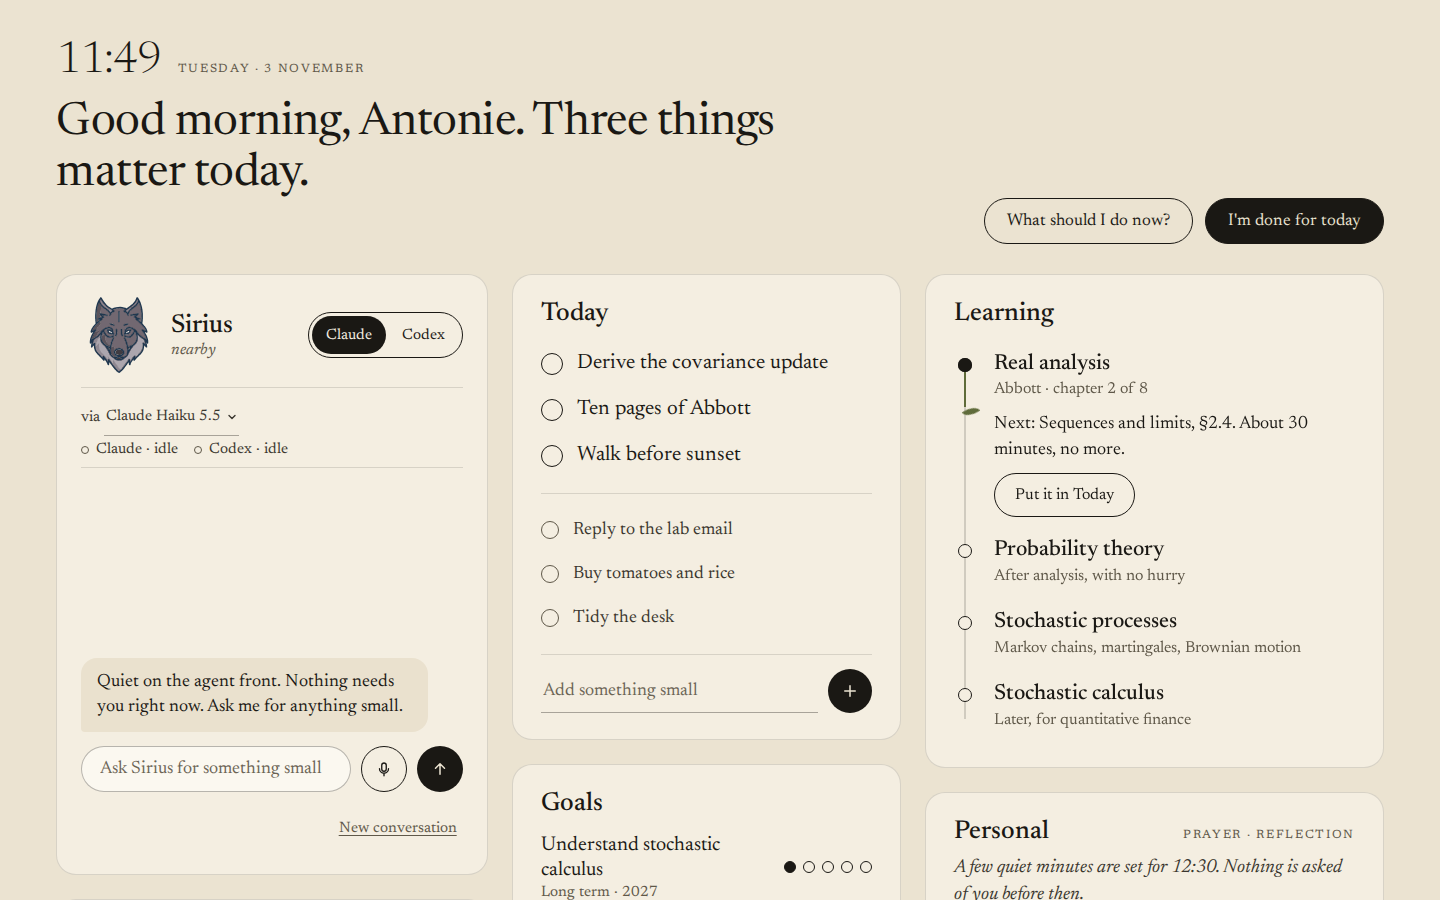
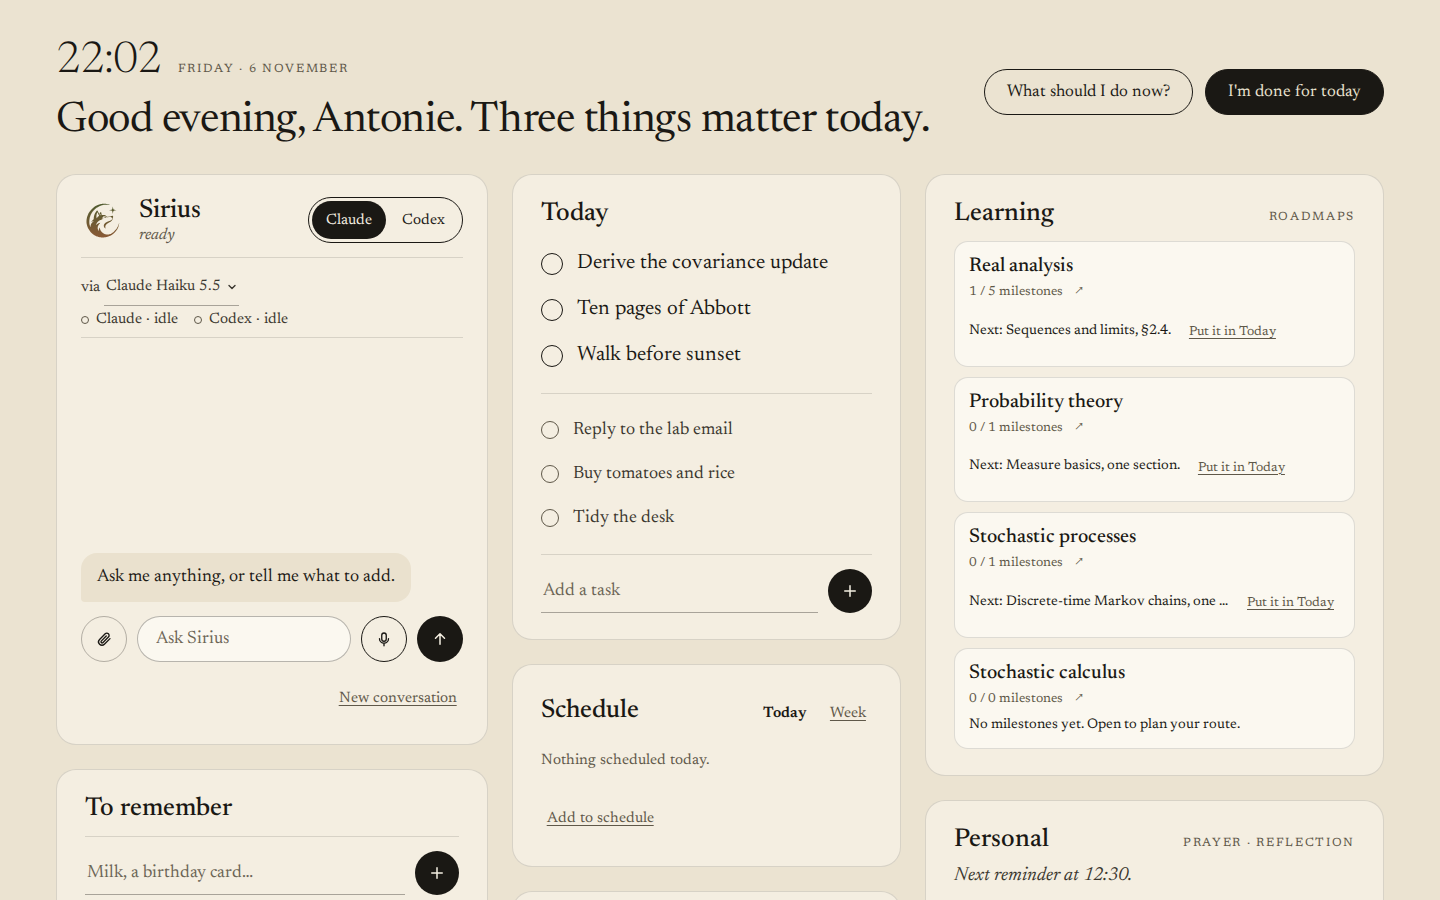
docs: README screenshots from the demo data, and what changed since v1
New desktop and phone screenshots (the v1 ones predate the wolf, the new chat
and the roadmaps) and a Screens section, all from the built-in demo data so no
real day lands in them; e2e/readme-shots.spec.ts retakes them on request. The
feature table now covers the model presets, roadmap checkpoint pages, alerts
from any terminal that raise the agent's own window, and the wolf's states;
the vine and orb descriptions were stale.

diff --git a/e2e/readme-shots.spec.ts b/e2e/readme-shots.spec.ts
@@ -1,0 +1,45 @@
+/**
+ * The README's screenshots, from the built-in demo data so no real day ever lands in them.
+ * Run on purpose only: SIRIUS_README_SHOTS=1 bunx playwright test readme-shots
+ */
+import { expect, type Page, test } from '@playwright/test';
+
+test.skip(!process.env.SIRIUS_README_SHOTS, 'only when asked for');
+
+const OUT = 'docs/images';
+
+async function say(page: Page, text: string): Promise<void> {
+  await page.getByLabel('Message Sirius').fill(text);
+  await page.getByLabel('Message Sirius').press('Enter');
+  await expect(page.getByRole('button', { name: 'Send' })).toBeEnabled();
+}
+
+test('desktop', async ({ page }, info) => {
+  test.skip(info.project.name !== 'desktop');
+  await page.goto('/?fixtures&toastMs=600000');
+  await expect(page.locator('h1')).toContainText('matter today.');
+  await page.waitForTimeout(1500); // the logo finishes drawing in
+  await page.screenshot({ path: `${OUT}/desktop.png` });
+  await say(page, 'theme midnight');
+  await expect(page.locator('html')).toHaveAttribute('data-theme', 'midnight');
+  await say(page, 'add goal: Run a 10k');
+  await page.waitForTimeout(1500);
+  await page.screenshot({ path: `${OUT}/desktop-midnight.png` });
+});
+
+test('phone', async ({ page }, info) => {
+  test.skip(info.project.name !== 'phone');
+  const tab = (name: string) => page.locator('.tab-bar .tab', { hasText: name });
+  await page.goto('/?fixtures&phone&toastMs=600000');
+  await expect(page.locator('.task').first()).toBeVisible();
+  // The phone opens on the logo drawing itself in; wait until it has left.
+  await expect(page.locator('.launch')).toHaveCount(0, { timeout: 15_000 });
+  await page.screenshot({ path: `${OUT}/phone.png` });
+  await tab('Sirius').click();
+  await say(page, 'add goal: Run a 10k');
+  await page.waitForTimeout(1500);
+  await page.screenshot({ path: `${OUT}/phone-sirius.png` });
+  await tab('Plan').click();
+  await page.waitForTimeout(800);
+  await page.screenshot({ path: `${OUT}/phone-plan.png` });
+});

diff --git a/README.md b/README.md
@@ -19,6 +19,7 @@ working from its own copy while the laptop is away.
 ## Contents
 
 - [Features](#features)
+- [Screens](#screens)
 - [How it works](#how-it-works)
 - [Requirements](#requirements)
 - [Install](#install)
@@ -36,21 +37,37 @@ working from its own copy while the laptop is away.
 
 | Area | What it does |
 |---|---|
-| **Sirius** | A chat with Claude or Codex, switched with one tap, through the official CLIs. One conversation lasts until you start a new one, and it carries over when you switch agents. A memory file keeps lasting facts across sessions. |
+| **Sirius** | A chat with Claude or Codex, switched with one tap, through the official CLIs. One conversation lasts until you start a new one, and it carries over when you switch agents. Pick the model under the switch: Claude's, or four Codex presets, each with its own reasoning effort. A memory file keeps lasting facts across sessions. |
 | **Today** | Two or three priorities plus small tasks. Unfinished tasks move quietly to the next day at 04:00. |
 | **Schedule** | Fixed commitments such as lectures, the gym or shifts: weekly on chosen days within a term, or once. Kept apart from tasks, with a reminder 10 minutes before. Sirius can add them for you, and your phone's calendar can show them. |
 | **Goals** | A few goals, with milestone dots instead of percentages. You can add them by hand or ask Sirius. |
-| **Learning** | Roadmaps drawn as a growing vine. "Put it in Today" turns the next step into a task. Attach a syllabus PDF or Markdown file in the chat, and Sirius turns it into a roadmap. |
+| **Learning** | Independent roadmaps, each with its milestones and its own page of checkpoints, descriptions and progress notes. "Put it in Today" turns the next step into a task. Attach a syllabus PDF or Markdown file in the chat, and Sirius turns it into a roadmap. |
 | **To remember** | A plain list for things to buy or remember, with no day or time attached. |
 | **Personal and Well-being** | Prayer and reflection reminders, a breathing exercise and stretch nudges. |
-| **Agent attention** | A toast and a desktop notification when Claude Code or Codex is blocked on a permission prompt or a question. |
+| **Agent attention** | A toast and a desktop notification when Claude Code or Codex, in any terminal, is blocked on a permission prompt or a question. It clears itself once you answer. Clicking it brings up the terminal or VS Code the agent runs in, also from a distrobox container; with the focus extension, that agent's own window. The Sirius card shows which sessions are working or idle. |
 | **Voice** | Push-to-talk with **Ctrl+Alt+Space**, in English and Romanian. Common commands such as "add milk to my list" or "ce urmează" are handled on the laptop without an agent turn, and anything else goes to the agent. |
-| **Looks** | Seven themes and three voice animations; ask Sirius ("switch to midnight", "use the ring"). The orb ripples with the voice while it listens and speaks. |
+| **Looks** | Six themes; ask Sirius ("switch to midnight", "something darker"). The Sirius wolf takes each theme's colours and reacts to what happens: it draws itself in at launch, listens, thinks and speaks with the voice, works while an agent runs, howls when one finishes or wants you, and sleeps in quiet mode. |
 | **Phone** | An installable web app over Tailscale, with its own layout: Today, Sirius, Plan and List behind a bottom bar, and a mic that sends your voice to the laptop and says the answer on the phone. It keeps an offline copy, queues the changes you make while away, and sends each one exactly once when the laptop is back. |
 | **Android app** | The same phone app in a native shell, which adds reminders scheduled on the phone (they fire with the laptop off), agent alerts, a Today widget and background sync. No Google account, no Firebase, built locally for free. |
 
 Agents never change several things at once, or delete anything, without you confirming a
 proposal card. Single changes an agent makes can be undone for 30 seconds.
+
+## Screens
+
+The desktop in the Midnight theme, after two requests to Sirius; then the phone's Sirius and Plan
+tabs. All screenshots use the built-in demo data (`?fixtures`), and
+`bun run build:ui && SIRIUS_README_SHOTS=1 bunx playwright test readme-shots` takes them
+again.
+
+<p align="center">
+  <img src="docs/images/desktop-midnight.png" alt="The dashboard in the Midnight theme, with a short chat" width="100%">
+</p>
+<p align="center">
+  <img src="docs/images/phone-sirius.png" alt="The phone's Sirius tab after adding a goal" width="30%">
+  &nbsp;
+  <img src="docs/images/phone-plan.png" alt="The phone's Plan tab with goals and roadmaps" width="30%">
+</p>
 
 ## How it works
 
